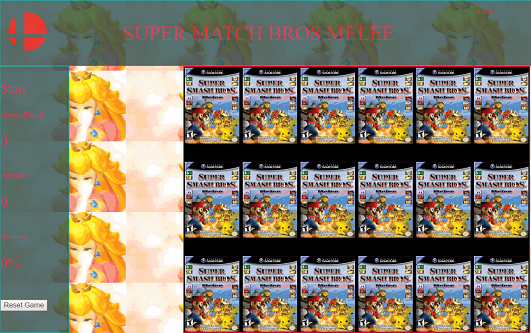
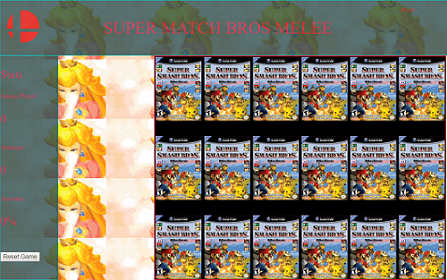
all pages/links up to date

diff --git a/index.html b/index.html
@@ -108,7 +108,7 @@
                                 <h4>
                                     <strong>DungeonScript</strong>
                                 </h4>
-                                <h4>DungeonScript, a browser-based game engine built for a classic grid-based role playing game. Create a user account, load up the game, save it for later, and explore the basic game world created to demonstrate what is built thus far.</h4>
+                                <p>DungeonScript, a browser-based game engine built for a classic grid-based role playing game. Create a user account, load up the game, save it for later, and explore the basic game world created to demonstrate what is built thus far.</p>
                                 <a href="https://github.com/Learning-Fuze/c8_group_dnd" class="btn btn-light">DungeonScript on GitHub</a>
                             </div>
                         </div>
@@ -119,10 +119,10 @@
                                 <i class="fa fa-compass fa-stack-1x text-primary"></i>
                             </span>
                                 <h4>
-                                    <strong>Service Name</strong>
+                                    <strong>Fresh Start</strong>
                                 </h4>
-                                <p>Lorem ipsum dolor sit amet, consectetur adipisicing elit.</p>
-                                <a href="#" class="btn btn-light">Learn More</a>
+                                <p>A random new identity generator built over the course of 36 hours with a team of 6. Utilizes a variety of APIs to generate a new person, identity, images of what the new life will look like, and pull up a map of the new place of residence.</p>
+                                <a href="#" class="btn btn-light">Fresh Start on Github</a>
                             </div>
                         </div>
                         <div class="col-md-3 col-sm-6">
@@ -134,7 +134,7 @@
                                 <h4>
                                     <strong>Tic Tac Toe</strong>
                                 </h4>
-                                <p>Created by a team of 3 web developers, this version of Tic Tac Toe has a slight twist: players can increase the dimensions of the board instead of taking a turn, making what may seem like a clinched game a whole new challenge.</p>
+                                <p>Created by a team of 3 web developers, this version of Tic Tac Toe has a slight twist: players can increase the dimensions of the board instead of taking a turn, potentially turning the entire game onto its head.</p>
                                 <a href="https://github.com/JoshHall/c8_tictactoe/tree/master" class="btn btn-light">Tic Tac Toe on Github</a>
                             </div>
                         </div>
@@ -145,10 +145,10 @@
                                 <i class="fa fa-shield fa-stack-1x text-primary"></i>
                             </span>
                                 <h4>
-                                    <strong>Service Name</strong>
+                                    <strong>Super Match Bros Melee</strong>
                                 </h4>
-                                <p>Lorem ipsum dolor sit amet, consectetur adipisicing elit.</p>
-                                <a href="#" class="btn btn-light">Learn More</a>
+                                <p>A freshman effort at a memory match game. Players must memorize the position of various images of popular game characters and match them correctly in as few guesses as possible.</p>
+                                <a href="https://github.com/ShaneSomerville/C8_hackathon" class="btn btn-light">Super Match Bros on Github</a>
                             </div>
                         </div>
                     </div>
@@ -161,49 +161,51 @@
         <!-- /.container -->
     </section>
 
-    <!-- Callout -->
-    <aside class="callout">
-        <div class="text-vertical-center">
-            <h1>Vertically Centered Text</h1>
-        </div>
-    </aside>
+    <!--&lt;!&ndash; Callout &ndash;&gt;-->
+    <!--<aside class="callout">-->
+        <!--<div class="text-vertical-center">-->
+            <!--<h1>Vertically Centered Text</h1>-->
+        <!--</div>-->
+    <!--</aside>-->
 
     <!-- Portfolio -->
     <section id="portfolio" class="portfolio">
         <div class="container">
             <div class="row">
                 <div class="col-lg-10 col-lg-offset-1 text-center">
-                    <h2>My Work</h2>
+                    <h2>Live Pages</h2>
                     <hr class="small">
                     <div class="row">
-                        <div class="col-md-6">
+                        <div class="">
                             <div class="portfolio-item">
                                 <a href="http://shanesomerville.com/DungeonScript/skeletons/main_menu_base.php#/">
                                     <img class="img-portfolio img-responsive" src="img/portfolio_2.png">
                                 </a>
-                                <h4>DungeonScript Live Page</h4>
+                                <h4>DungeonScript</h4>
                             </div>
                         </div>
-                        <div class="col-md-6">
+                        <div class="">
                             <div class="portfolio-item">
-                                <a href="#">
-                                    <img class="img-portfolio img-responsive" src="img/portfolio-2.jpg">
+                                <a href="http://morasthite.github.io/C8_hackathon/">
+                                    <img class="img-portfolio img-responsive" src="img/freshstart.png">
                                 </a>
+                                <h4>Fresh Start</h4>
                             </div>
                         </div>
-                        <div class="col-md-6">
+                        <div class="">
                             <div class="portfolio-item">
                                 <a href="http://shanesomerville.com/TicTacToe/index.html">
-                                    <img class="img-portfolio img-responsive" src="img/portfolio-3.jpg">
+                                    <img class="img-portfolio img-responsive" src="img/tictactoe.png">
                                 </a>
-                                <h4>TicTacToe Live Page</h4>
+                                <h4>TicTacToe</h4>
                             </div>
                         </div>
-                        <div class="col-md-6">
+                        <div class="">
                             <div class="portfolio-item">
                                 <a href="http://shanesomerville.com/memory_match/">
                                     <img class="img-portfolio img-responsive" src="img/portfolio_1.png">
                                 </a>
+                                <h4>Super Match Bros</h4>
                             </div>
                         </div>
                     </div>
@@ -221,9 +223,8 @@
         <div class="container">
             <div class="row">
                 <div class="col-lg-12 text-center">
-                    <h3>The buttons below are impossible to resist.</h3>
-                    <a href="#" class="btn btn-lg btn-light">Click Me!</a>
-                    <a href="#" class="btn btn-lg btn-dark">Look at Me!</a>
+                    <h1>Technologies:</h1>
+                    <h2>JavaScript, jQuery, AngularJS, HTML5, CSS3, Bootstrap, Git</h2>
                 </div>
             </div>
         </div>
@@ -240,7 +241,7 @@
     <!--</section>-->
 
     <!-- Footer -->
-    <footer>
+    <footer id="contact">
         <div class="container">
             <div class="row">
                 <div class="col-lg-10 col-lg-offset-1 text-center">
